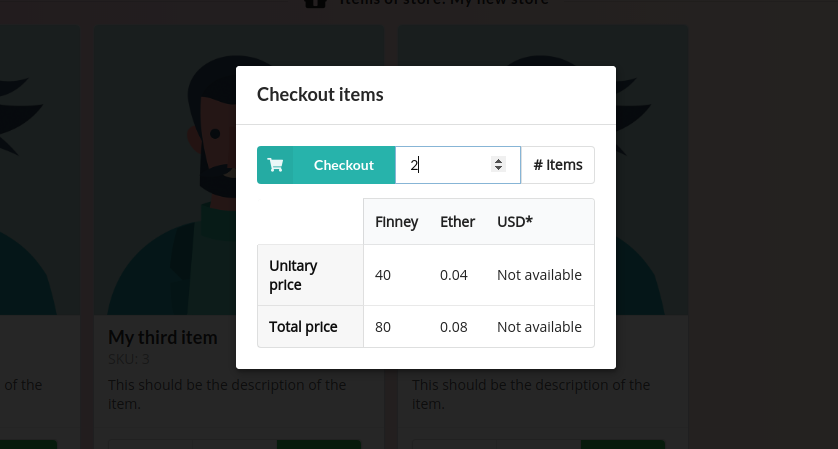
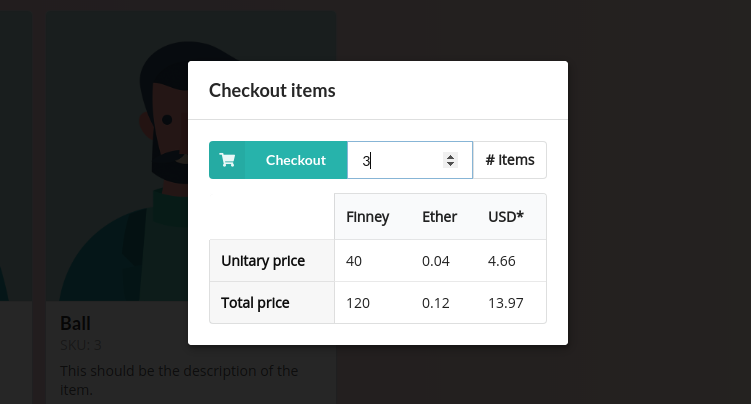
chore: unneeded import and screenshot with exchange ration ETH-USD applied

diff --git a/src/util/web3EnableMiddleware.js b/src/util/web3EnableMiddleware.js
@@ -1,6 +1,6 @@
 import { initBrowserProvider, initUport } from './connectors';
 import { initContract as initMarketplaceContract } from './contracts/marketplace';
-import { initContract as initKrakenContract, subscribeToKrakenPriceTicker } from './contracts/krakenPriceTicker';
+import { subscribeToKrakenPriceTicker } from './contracts/krakenPriceTicker';
 
 export default function enableWeb3() {
     return next => (reducer, initialState, enhancer) => {
